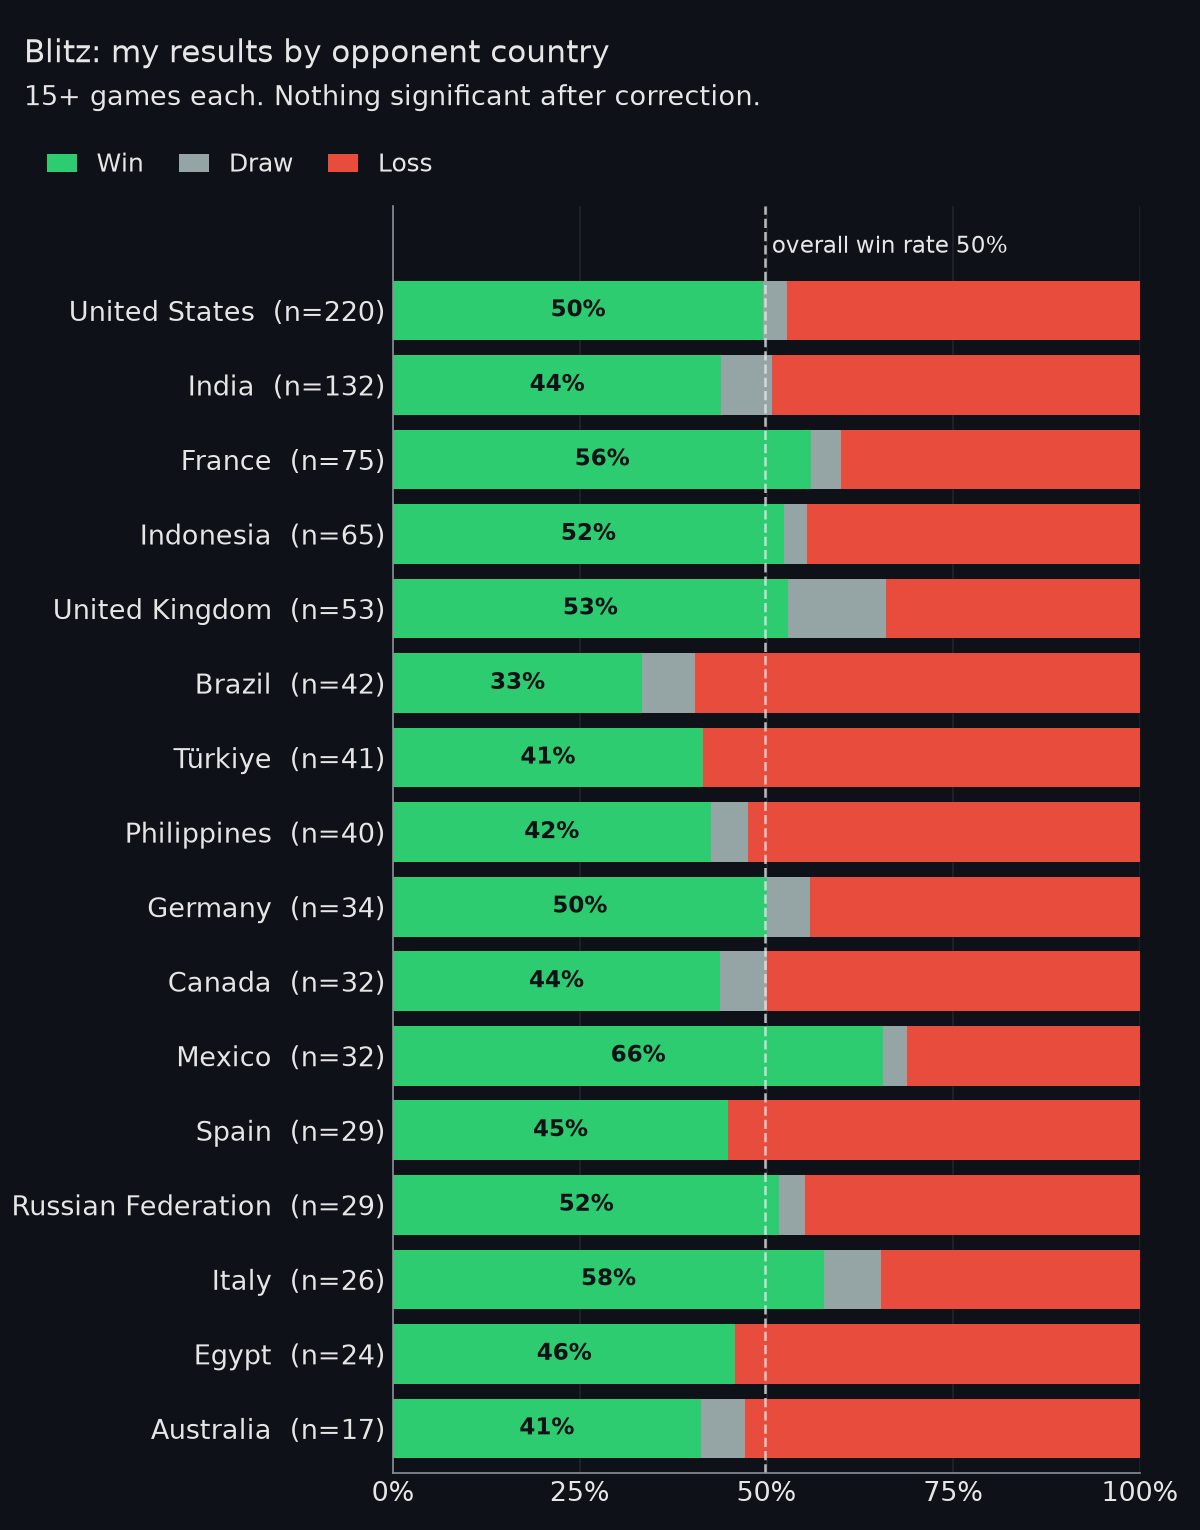
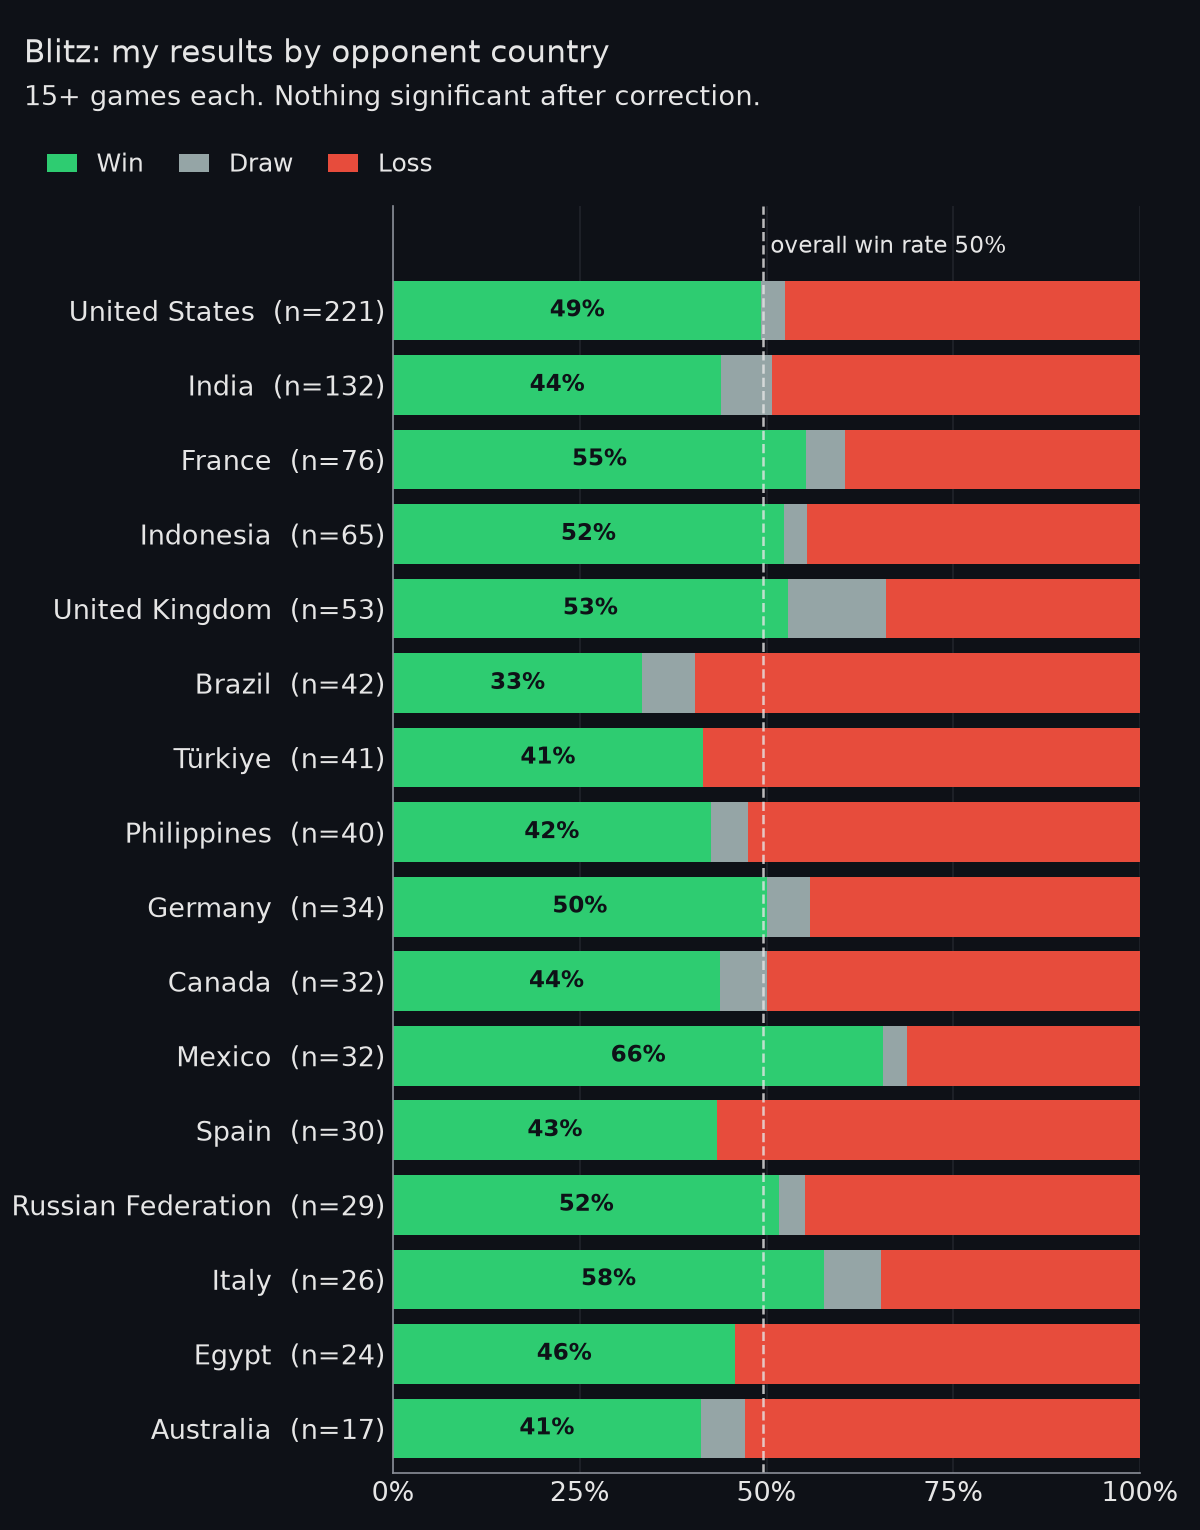
Auto-refresh chess stats 2026-11-08

diff --git a/README.md b/README.md
@@ -19,9 +19,9 @@ Built by Mirza Ramis Baig.
 The API: https://api.chess.com/pub/player/{username}/games/archives returns a list of monthly archive URLs, each returning full PGNs with clock times for clocked games.
 
 <!-- STATS:START -->
-### Last updated: 2026-11-07 13:14 UTC
+### Last updated: 2026-11-08 13:36 UTC
 
-**Dataset:** 2725 rated games, 2023-02-16 to 2026-11-07
+**Dataset:** 2732 rated games, 2023-02-16 to 2026-11-08
 
 **Statistically flagged countries this run** (Bonferroni-corrected within this run's test set —
 does *not* correct across repeated daily runs; see notes in `chess_analytics/stats.py`):
@@ -31,11 +31,11 @@ _No country crosses the Bonferroni-corrected significance threshold this run —
 **Session fatigue** (does performance decline the longer the player stays in one sitting? —
 sessions inferred from time gaps, see `chess_analytics/sessions.py`):
 
-Based on 1704 inferred sessions, 2725 games. Position-vs-performance correlation: ρ=-0.0288, p=0.1347 — not distinguishable from no trend. First game of session vs. later games: later games score worse by 0.032 on average, p=0.0765 — not distinguishable from noise. _Both tests use α=0.05 uncorrected for this specific comparison — treat a single borderline p-value as a lead to watch over time, not a confirmed effect, same caveat as the country analysis._
+Based on 1707 inferred sessions, 2732 games. Position-vs-performance correlation: ρ=-0.0288, p=0.1338 — not distinguishable from no trend. First game of session vs. later games: later games score worse by 0.032 on average, p=0.0732 — not distinguishable from noise. _Both tests use α=0.05 uncorrected for this specific comparison — treat a single borderline p-value as a lead to watch over time, not a confirmed effect, same caveat as the country analysis._
 
 **Peak rating** (see `chess_analytics/milestones.py` — this is a moving target, updates as new games are added):
 
-- **Blitz**: peak rating **917**, reached after 1143 of 1307 rated games, on 2026-10-06 — the account has since come back down from it
+- **Blitz**: peak rating **917**, reached after 1143 of 1314 rated games, on 2026-10-06 — the account has since come back down from it
 - **Rapid**: peak rating **986**, reached after 1171 of 1401 rated games, on 2026-04-16 — the account has since come back down from it
 
 
